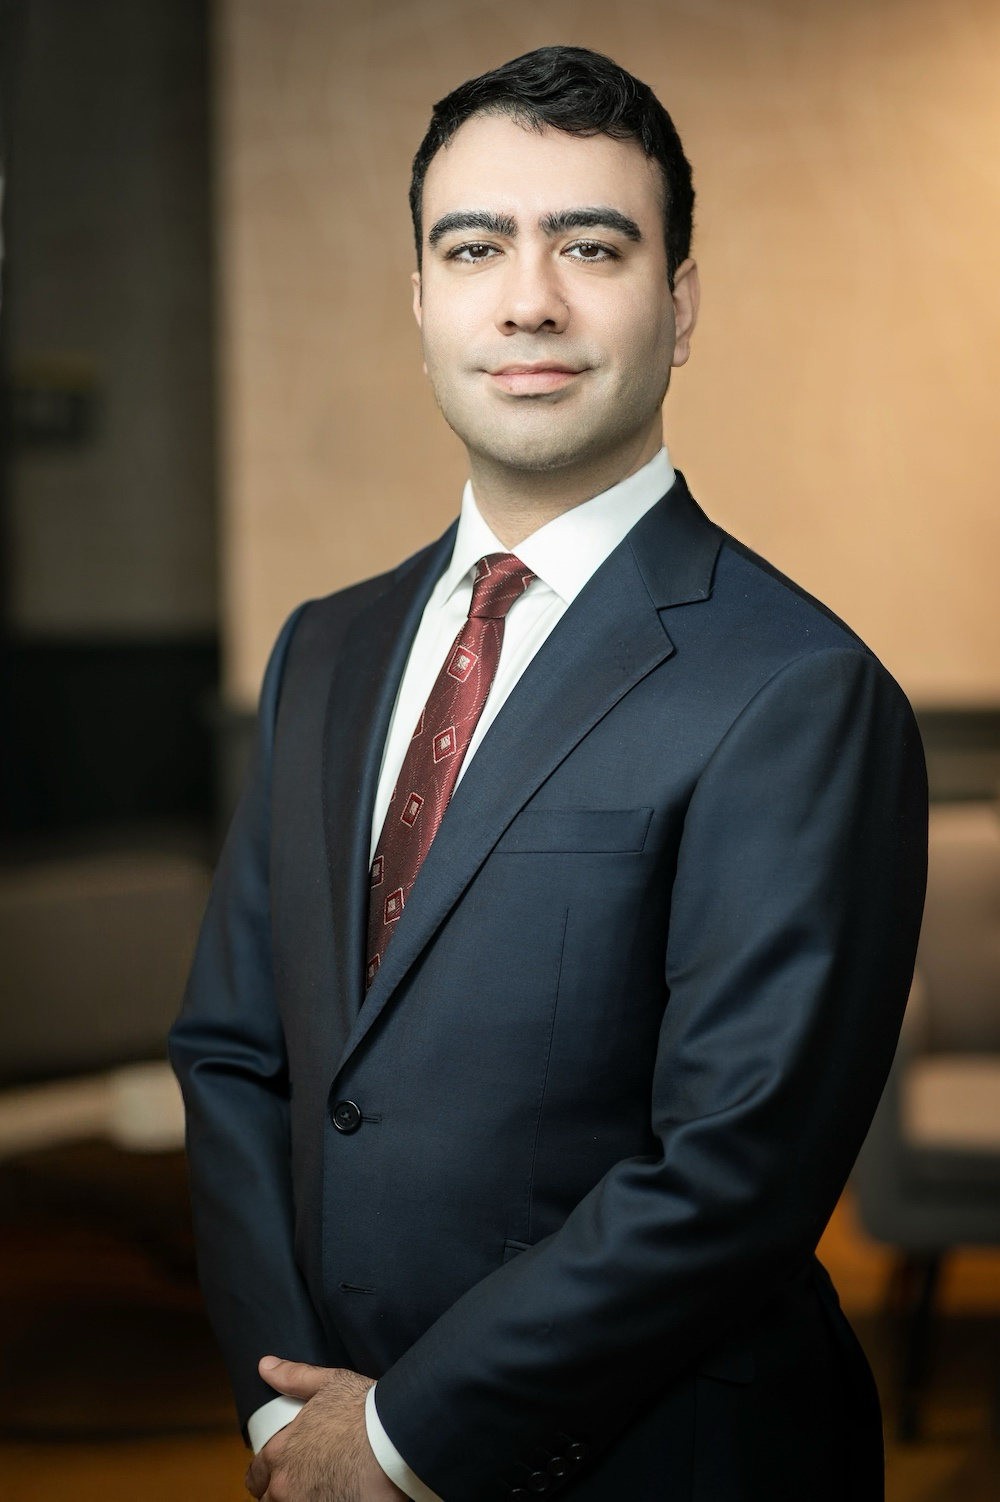
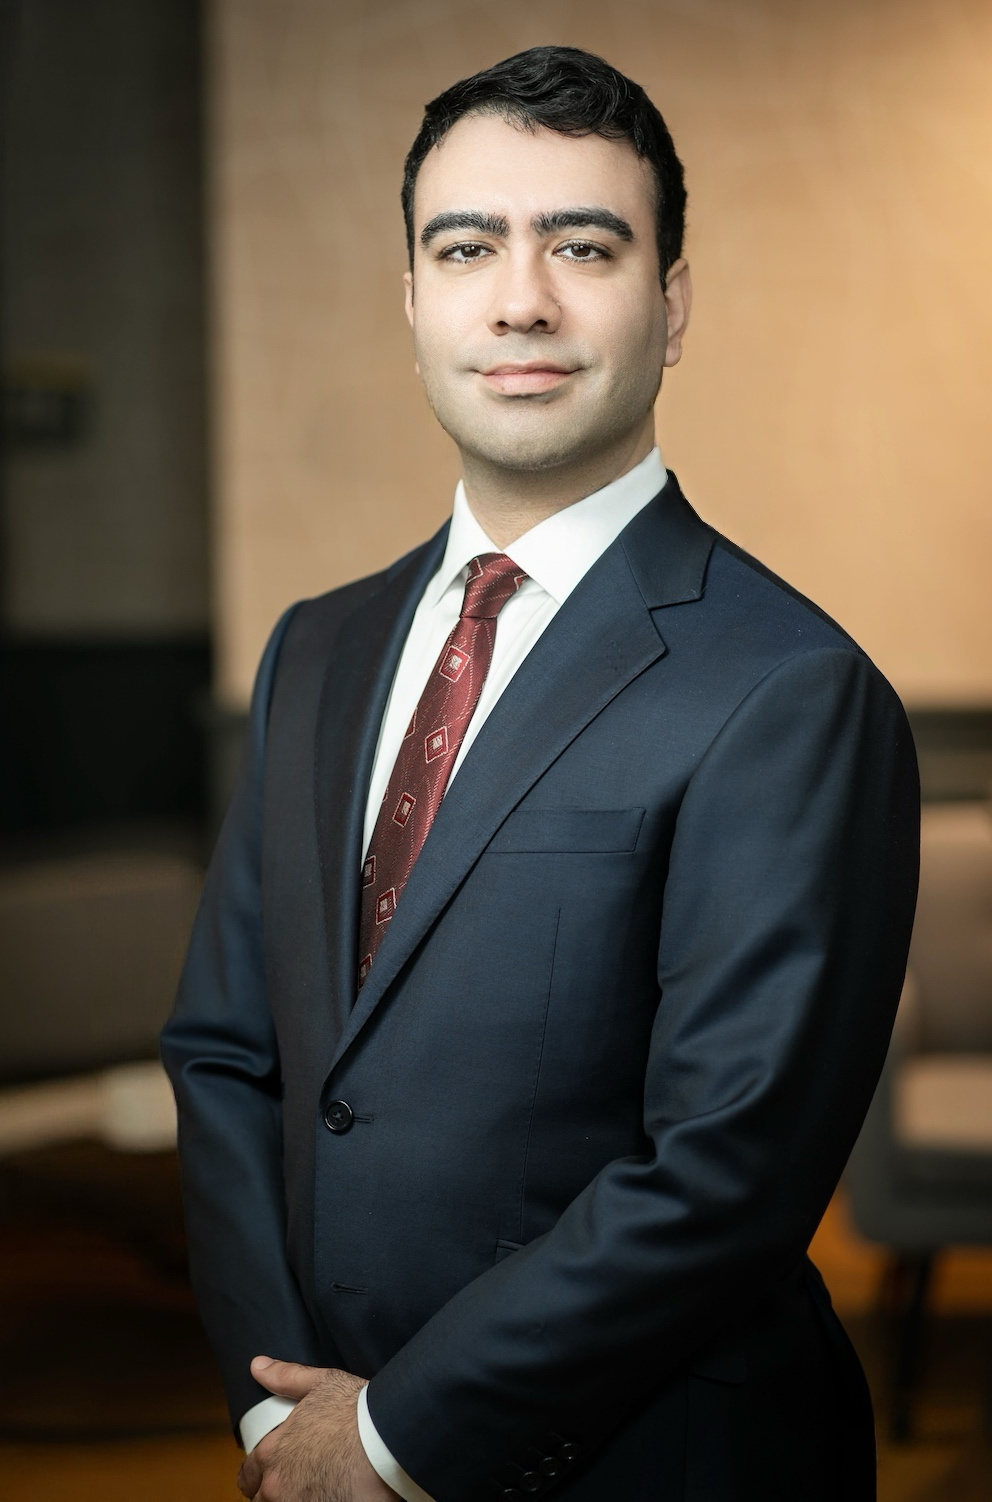
Crop the bright sliver off the hero portrait's left edge.
The clipped door-frame highlight sat on the first few pixels. Trimming it leaves a dark edge without changing his face or suit.

diff --git a/pages/Home.tsx b/pages/Home.tsx
@@ -234,7 +234,7 @@ const Home: React.FC = () => {
                   name="dr-rasouli-navy-suit"
                   alt={"Dr.\u00A0Jonathan\u00A0J.\u00A0Rasouli, MD, in a navy suit"}
                   priority
-                  width={1000}
+                  width={992}
                   height={1502}
                   className="block"
                   imgClassName="w-full h-auto rounded-xl shadow-[0_16px_40px_-12px_rgba(0,0,0,0.55)]"
